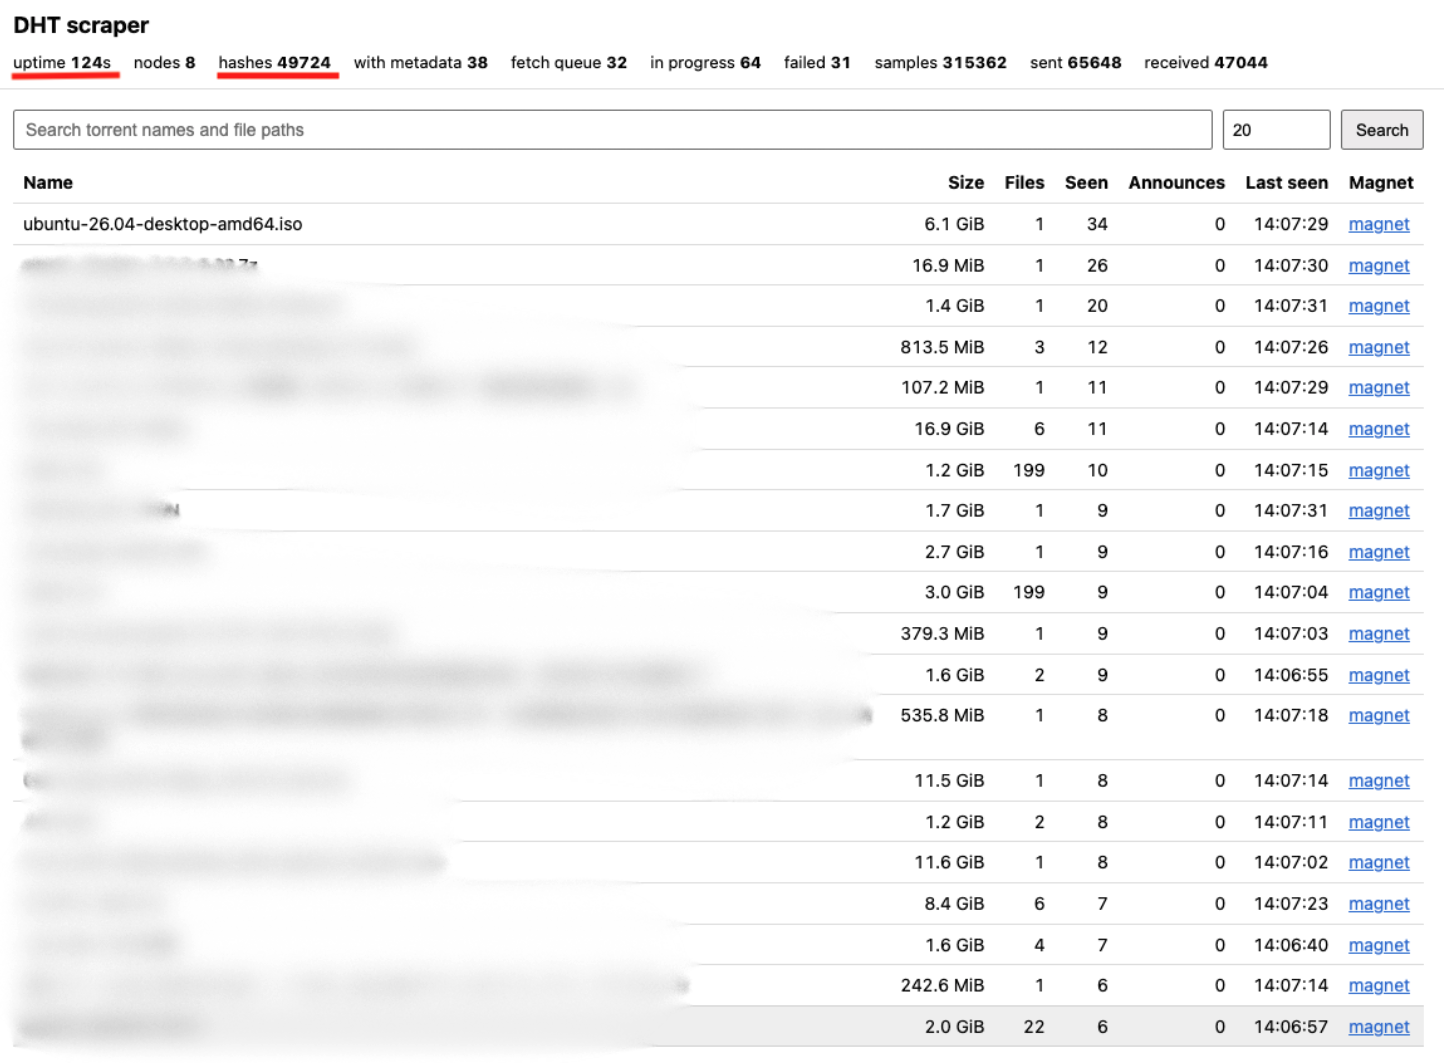
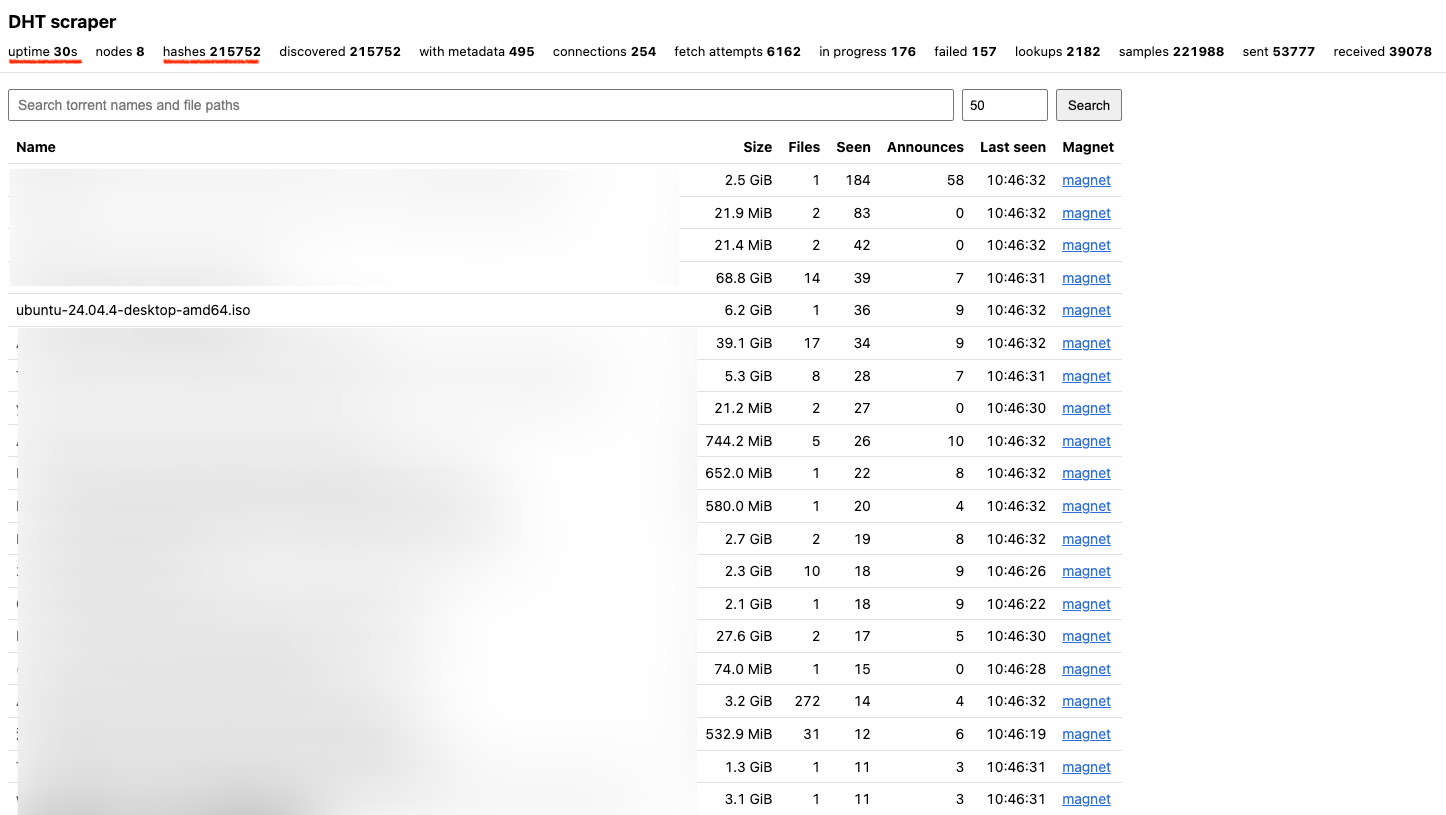
Trim the web page: drop duplicate and peer fields
- Stats bar: remove "discovered", which equals "hashes" until the
  catalog evicts (still in /api/stats).
- Torrent detail: remove "Candidate peers" and "fetched from" (still in
  /api/torrent/<hash>).
- New README screenshot.

diff --git a/dht_scraper/web_page.py b/dht_scraper/web_page.py
@@ -43,7 +43,6 @@ INDEX_PAGE_HTML = """<!DOCTYPE html>
     <span>uptime <b data-stat="uptime_seconds">0</b>s</span>
     <span>nodes <b data-stat="nodes">0</b></span>
     <span>hashes <b data-stat="hashes_seen">0</b></span>
-    <span>discovered <b data-stat="hashes_discovered">0</b></span>
     <span>with metadata <b data-stat="with_metadata">0</b></span>
     <span>connections <b data-stat="fetch_connections">0</b></span>
     <span>fetch attempts <b data-stat="fetch_attempts">0</b></span>
@@ -76,8 +75,6 @@ INDEX_PAGE_HTML = """<!DOCTYPE html>
     <dl id="detail-fields"></dl>
     <h3>Files</h3>
     <div id="files"><table><thead><tr><th>Path</th><th class="num">Length</th></tr></thead><tbody id="detail-files"></tbody></table></div>
-    <h3>Candidate peers</h3>
-    <p id="detail-peers" class="muted"></p>
   </aside>
 </main>
 <script>
@@ -141,7 +138,6 @@ INDEX_PAGE_HTML = """<!DOCTYPE html>
     if (meta) {
       addField(dl, "size", formatBytes(meta.size)); addField(dl, "piece length", formatBytes(meta.piece_length));
       addField(dl, "files", String(meta.file_count)); addField(dl, "private", meta.is_private ? "yes" : "no");
-      addField(dl, "fetched from", meta.source_peer ? meta.source_peer.ip + ":" + meta.source_peer.port : "-");
       addField(dl, "fetched at", formatTime(meta.fetched_at));
     }
     addField(dl, "fetch state", detail.fetch_state + " (attempts " + detail.fetch_attempts + (detail.last_error ? ", last error " + detail.last_error : "") + ")");
@@ -149,7 +145,6 @@ INDEX_PAGE_HTML = """<!DOCTYPE html>
     addField(dl, "first seen", formatTime(detail.first_seen)); addField(dl, "last seen", formatTime(detail.last_seen));
     var files = document.getElementById("detail-files"); clearChildren(files);
     (meta ? meta.files : []).forEach(function (f) { var tr = document.createElement("tr"); cell(tr, f.path); cell(tr, formatBytes(f.length), "num"); files.appendChild(tr); });
-    document.getElementById("detail-peers").textContent = detail.peers.length ? detail.peers.map(function (p) { return p.ip + ":" + p.port; }).join(", ") : "none";
     panel.hidden = false;
   }
 

diff --git a/tests/web/test_web_interface.py b/tests/web/test_web_interface.py
@@ -46,8 +46,16 @@ class WebInterfaceTest(unittest.TestCase):
 
     def test_RUNTIME_002_page_shows_pipeline_counters(self):
         _, body = self.get("/")
-        keys = ("hashes_seen", "hashes_discovered", "with_metadata", "fetch_connections", "fetch_attempts", "fetch_in_progress", "fetch_failed", "lookups_started", "samples_received", "packets_sent", "packets_received")
+        keys = ("hashes_seen", "with_metadata", "fetch_connections", "fetch_attempts", "fetch_in_progress", "fetch_failed", "lookups_started", "samples_received", "packets_sent", "packets_received")
         self.assertEqual([key for key in keys if ('data-stat="%s"' % key).encode() not in body], [])
+        self.assertNotIn(b'data-stat="hashes_discovered"', body)
+
+    def test_RUNTIME_004_detail_panel_hides_peers(self):
+        _, body = self.get("/")
+        for removed in (b"Candidate peers", b"detail-peers", b"fetched from"):
+            self.assertNotIn(removed, body)
+        for kept in (b'id="detail-fields"', b'id="detail-files"', b'"fetched at"'):
+            self.assertIn(kept, body)
 
     def test_api_stats_returns_provider_payload(self):
         response, body = self.get("/api/stats")
